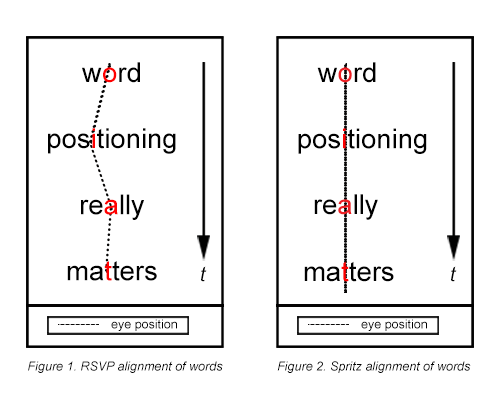
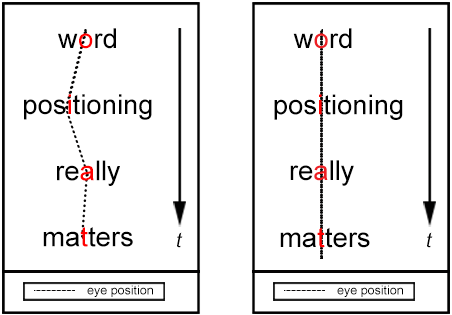
Added figure, modified other figures

Changed region(s): [[0.5265, 0.0, 1.0, 1.0], [0.0, 0.0, 0.4646, 1.0]]

diff --git a/Perception paper/background.tex b/Perception paper/background.tex
@@ -22,11 +22,16 @@ During the saccade, though, everything is a blur. Or it should be anyway. It see
 A fixation is not needed to read a word though. Your attention can be shifted to objects or words in your peripheral vision. But it is not possible to make a saccade without shifting attention to the fixation.
 
 \subsection{Optimal Recognition Position} \label{ORP}
-The destination of each saccade when reading, or the fixation point, depends on the content of the sentence; sometimes, the eye also skip words by saccading past them. 80\% of the fixation points are on content words (nouns, verbs and adjectives) and the remaining 20\% are on articles, pronouns, and conjunctions \cite{eysenck_cognitive_2010}. The fixation point inside the words themselves, the \textit{optimal recognition position} (ORP), has an impact on how fast a reader can name the word they are looking at. Research has shown that the ORP is near the middle or slightly left of the middle \cite{oregan_optimal_1992, nazir_letter_1998, oregan_convenient_1984}. The added recognition time as the fixation point deviates from the ORP is a U-shaped curve, with around 20 ms added for each letter of deviation.
+The destination of each saccade when reading, or the fixation point, depends on the content of the sentence; sometimes, the eye also skip words by saccading past them. 80\% of the fixation points are on content words (nouns, verbs and adjectives) and the remaining 20\% are on articles, pronouns, and conjunctions \cite{eysenck_cognitive_2010}. The fixation point inside the words themselves, the \textit{optimal recognition position} (ORP), has an impact on how fast a reader can name the word they are looking at. Research has shown that the ORP is near the middle or slightly left of the middle \cite{oregan_optimal_1992, nazir_letter_1998, oregan_convenient_1984}. The added recognition time as the fixation point deviates from the ORP is a U-shaped curve, see Figure \ref{fig:ucurve}, with around 20 ms added for each letter of deviation.
 
-Not surprisingly removing the spacing between words decreases the reading speed with around 30\%. Fixation does not fall on the ORP but tends to the beginning of words. Interestingly enough adding spaces in long words, like long Danish or German compound words, actually increased reading speed, even though it was grammatically incorrect. Likewise with putting in spaces in Thai, where there are no spaces.
+\begin{figure}[htbp]
+\centering
+\includegraphics[width=0.4\textwidth]{Pics/ucurve}
+\caption{The time it took participants to name the word they saw depending on their fixation point in the word. This graph shows results for words of length 5, 7, 9 and 11. \protect\cite{oregan_convenient_1984}}
+\label{fig:ucurve}
+\end{figure}
 
-\textbf{(Gustav: maybe add an image of this curve?)}
+Removing the spacing between words decreases the reading speed with around 30\%. Fixation does not fall on the ORP but tends to the beginning of words. Splitting long words, like long Danish or German compound words, into their individual words, increases reading speed, even though it was grammatically incorrect. Likewise with putting in spaces in Thai, where there are no spaces.
 
 \subsection{Meta-guiding reading (using a pen to keep focus)}
 GUSTAV
@@ -50,12 +55,13 @@ MATHIAS
 \subsection{Reading Processes}
 \citeA{carver_reading_1992} presents five reading processes, also referred to as \textit{gears} (see Figure \ref{fig:trace_cross}). Each gear is defined by its \textit{goal}, \textit{culminating component}, and its \textit{speed}, measured by \textit{WPM} (words per minute). WPM also varies based on reading level, so to block out this bias, \citeauthor{carver_reading_1992} bases his experiments exclusively on college students. The following section is based on his study.
 
-\begin{figure}[htbp]
+\begin{figure*}[htbp]
 \centering
-\includegraphics[width=0.5\textwidth]{Pics/gears_list}
-\caption{Each gear has its own goal, culminating component, and WPM.}
+\captionsetup{justification=centering}
+\includegraphics[width=1\textwidth]{Pics/gears_list}
+\caption{Each gear has its own goal, culminating component, and WPM. \protect\cite{carver_reading_1992}}
 \label{fig:gears_list}
-\end{figure}
+\end{figure*}
 
 The goal relies on the reader's intent when reading the text. For instance, the reader could read the text just to find a single word (scanning). The culminating component of a gear, is then the cognitive process that it requires. \textit{Lexical access} is the component used for finding a single word in memory. If the reader's goal changed to finding a certain sentence in the text, such as in skimming, transposed words must be found and the activity would require an additional component; \textit{semantic encoding}. Other than just finding the words, the reader must now determine the meaning of the sentence. In order for the reader to understand the complete thought of a sentence, the \textit{sentential integration} component must be added. These three components together are the requirement for the most basic and most used reading process - \textit{rauding}, also known as \textit{typical reading}. The word comes from a combination of 'auding' and 'reading', as they both share the same underlying comprehension processes. If the goal of reading the text is to learn, e.g., in order to answer a test, the \textit{idea remembering} component is added. In this gear, some words require re-reading and longer time to process. The final gear is focused around remembering the text and uses the \textit{fact rehearsal} component. This gear requires rehearsing the material and memorizing it. 
 \citeA{carver_reading_1992} goes on to mention that the best readers shift up and down in gear while reading, based on the difficulty of the material - a term called \textit{process flexibility}. 

diff --git a/Perception paper/speedreading.tex b/Perception paper/speedreading.tex
@@ -11,7 +11,7 @@ Rapid Serial Visual Presentation is a technique that has become popular in the f
 
 \begin{figure}[htbp]
 \centering
-\includegraphics[width=0.3\textwidth]{Pics/opr_spritz}
+\includegraphics[width=0.4\textwidth]{Pics/opr_spritz}
 \caption{Spritz utilizes the optimal recognition position to align words.}
 \label{fig:spritz_orp}
 \end{figure}
@@ -26,7 +26,7 @@ the man drank the water that was clear and cold overflowed from the toilet") to 
 
 \begin{figure}[htbp]
 \centering
-\includegraphics[width=0.4\textwidth]{Pics/trace_crosses}
+\includegraphics[width=0.45\textwidth]{Pics/trace_crosses}
 \caption{Schotter et al. used eye-tracking to mask the words a person had already read, making it impossible to regress. Asterisks represent eye fixations.}
 \label{fig:trace_cross}
 \end{figure}
